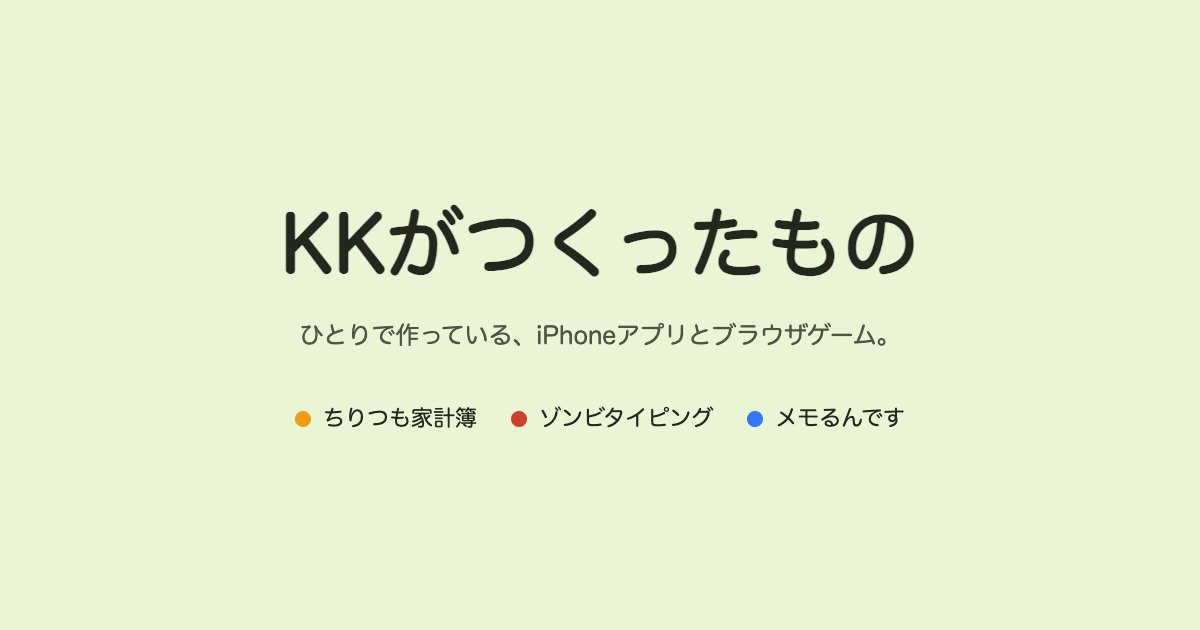
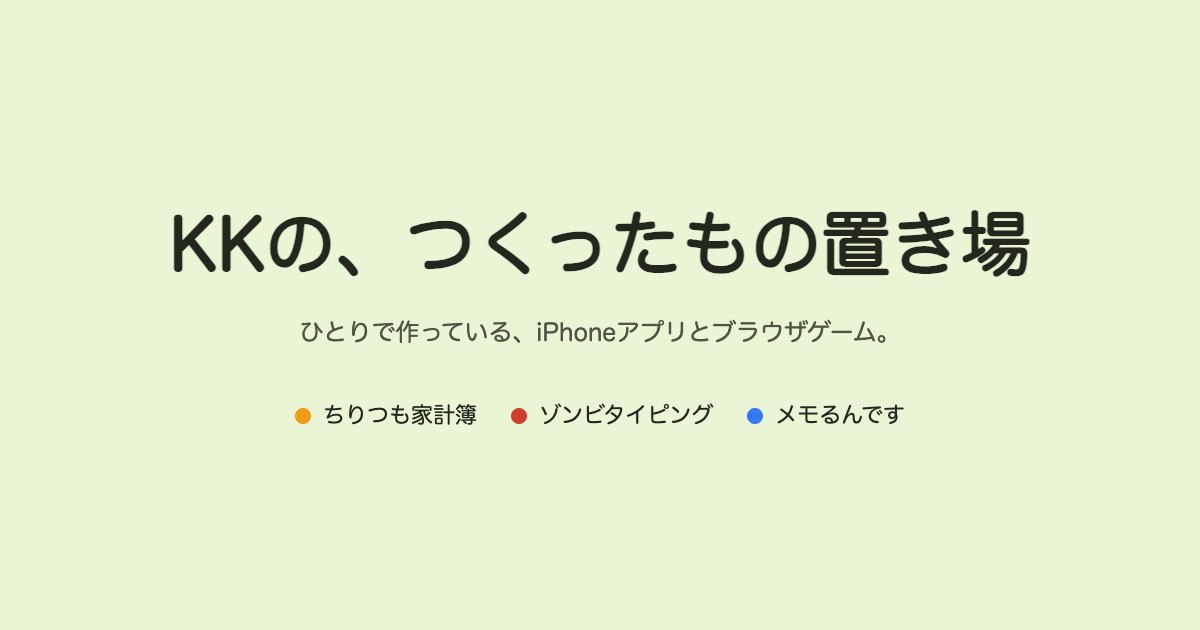
名前・サイト名・料金の説明・スクショの並びを直す
- 作者名の漢字を「川畑康志郎」に修正
- サイト名を「KKの、つくったもの置き場」に変更（OG画像も再生成）
- カードのスクリーンショットが縦につぶれる問題を修正
- App Storeと同じ並びになるよう2枚目と3枚目を入れ替え
- ちりつもに「なぜ、お金をとるのか」を追加（AI利用料は実費、月300円の理由）

diff --git a/chiritsumo/index.html b/chiritsumo/index.html
@@ -23,7 +23,7 @@
 <body class="t-chiri">
 
 <nav class="nav">
-  <a class="nav__home" href="/"><span class="nav__mark" aria-hidden="true"></span>KKがつくったもの</a>
+  <a class="nav__home" href="/"><span class="nav__mark" aria-hidden="true"></span>KKの、つくったもの置き場</a>
   <ul class="nav__list">
     <li><a href="/chiritsumo/" aria-current="page" style="--d:var(--chiri)"><i class="nav__dot"></i><span class="nav__label">ちりつも家計簿</span></a></li>
     <li><a href="/zombie/" style="--d:var(--zombie)"><i class="nav__dot"></i><span class="nav__label">ゾンビタイピング</span></a></li>
@@ -219,8 +219,8 @@
     </div>
     <div class="gallery__strip">
       <button class="shot" type="button" data-zoom><img src="/assets/img/chiri/store-1.jpg" width="600" height="1299" alt="AI時代の最新家計簿。登録なし・広告なし" loading="lazy"></button>
-      <button class="shot" type="button" data-zoom><img src="/assets/img/chiri/store-3.jpg" width="600" height="1300" alt="入力ゼロ・ストレスゼロ。レシート撮るだけ、だから続く" loading="lazy"></button>
       <button class="shot" type="button" data-zoom><img src="/assets/img/chiri/store-2.jpg" width="600" height="1300" alt="カード明細では、わからない。いつ・どこで・商品名・何個・いくら・割引" loading="lazy"></button>
+      <button class="shot" type="button" data-zoom><img src="/assets/img/chiri/store-3.jpg" width="600" height="1300" alt="入力ゼロ・ストレスゼロ。レシート撮るだけ、だから続く" loading="lazy"></button>
       <button class="shot" type="button" data-zoom><img src="/assets/img/chiri/store-4.jpg" width="600" height="1300" alt="分析はAIの仕事。習慣も、変化も教えてくれる" loading="lazy"></button>
       <button class="shot" type="button" data-zoom><img src="/assets/img/chiri/store-5.jpg" width="600" height="1300" alt="レジ袋、560円でした。それは気づけない日々のちりつも" loading="lazy"></button>
       <button class="shot" type="button" data-zoom><img src="/assets/img/chiri/store-6.jpg" width="600" height="1296" alt="後からまとめてアップ。圧倒的に早い・だから続く" loading="lazy"></button>
@@ -248,6 +248,31 @@
         <p>足りなくなったときだけ、プレミアムを考えてもらえれば十分です。無料のままでも、手入力・月レポート・CSVの書き出しはずっと使えます。</p>
       </div>
     </div>
+    <section class="letter" id="letter">
+      <p class="letter__label">つくった人から</p>
+      <h3>なぜ、お金をとるのか</h3>
+      <p>
+        レシートを1枚読むたびに、<em>AIの利用料が実際にかかっています</em>。
+        1枚ぶんは小さな額です。でも読まれた枚数だけ、そのまま請求が来ます。
+        いまそれを払っているのは、ひとりで作っている私です。
+      </p>
+      <p>
+        だから「ぜんぶ無料で使い放題」にはできませんでした。
+        広告を入れて無料にする道もありました。でも家計簿は、<strong>何を買ったかがぜんぶ書いてある場所</strong>です。
+        そこにトラッキング広告を置くのは、どうしても嫌でした。
+      </p>
+      <p>
+        残った道が、たくさん使う方にだけ<em>月300円ほど</em>をお願いすることでした。
+        コーヒー1杯ぶんです。いただいたぶんはAIの利用料とサーバー代に消えて、
+        残りは次に作るものになります。もうけを大きくしたくて置いている料金ではありません。
+      </p>
+      <p>
+        <strong>はじめの30枚と、毎月10枚は、これからも無料のままにしておきます。</strong>
+        毎月たくさん撮る方だけ、その300円を持ってもらえたら助かります、というお願いです。
+      </p>
+      <p class="letter__sign">— 川畑康志郎</p>
+    </section>
+
     <div class="plans">
       <div class="plan">
         <h3>無料</h3>

diff --git a/index.html b/index.html
@@ -5,10 +5,10 @@
 <meta name="viewport" content="width=device-width,initial-scale=1">
 <meta name="color-scheme" content="light">
 <meta name="theme-color" content="#eaf5d6">
-<title>KKがつくったもの — ちりつも家計簿・ゾンビタイピング・メモるんです</title>
+<title>KKの、つくったもの置き場 — ちりつも家計簿・ゾンビタイピング・メモるんです</title>
 <meta name="description" content="ひとりで作っているiPhoneアプリとブラウザゲームの置き場です。ちりつも家計簿（レシートを撮るだけのAI家計簿）、ゾンビタイピング（無料の日本語タイピングゲーム）、メモるんです（フォルダで整理するメモ帳）。">
 <link rel="canonical" href="https://thisisikemen.github.io/">
-<meta property="og:title" content="KKがつくったもの">
+<meta property="og:title" content="KKの、つくったもの置き場">
 <meta property="og:description" content="ひとりで作っているiPhoneアプリとブラウザゲームの置き場です。">
 <meta property="og:type" content="website">
 <meta property="og:url" content="https://thisisikemen.github.io/">
@@ -23,7 +23,7 @@
 <body>
 
 <nav class="nav">
-  <a class="nav__home" href="/"><span class="nav__mark" aria-hidden="true"></span>KKがつくったもの</a>
+  <a class="nav__home" href="/"><span class="nav__mark" aria-hidden="true"></span>KKの、つくったもの置き場</a>
   <ul class="nav__list">
     <li><a href="/chiritsumo/" style="--d:var(--chiri)"><i class="nav__dot"></i><span class="nav__label">ちりつも家計簿</span></a></li>
     <li><a href="/zombie/" style="--d:var(--zombie)"><i class="nav__dot"></i><span class="nav__label">ゾンビタイピング</span></a></li>
@@ -32,7 +32,7 @@
 </nav>
 
 <header class="top">
-  <h1>KKがつくったもの</h1>
+  <h1>KKの、つくったもの置き場</h1>
   <p class="lead">
     ひとりで作っています。むずかしい設定はいりません。
     入れたその日から、なんとなく使えるものを目指しています。
@@ -133,13 +133,18 @@
   <section class="maker rise" style="margin-top:3.5rem">
     <h2>つくっている人</h2>
     <p>
-      川端幸士郎（KK）といいます。企画も、絵も、コードも、文章も、ひとりでやっています。
+      川畑康志郎（KK）といいます。企画も、絵も、コードも、文章も、ひとりでやっています。
       作るものはばらばらですが、決めていることが3つあります。
     </p>
     <p>
       <strong>説明書がいらないこと。</strong>
       <strong>登録させないこと。</strong>
       <strong>あとから直せること。</strong>
+    </p>
+    <p>
+      ちりつも家計簿のレシート読み取りには、AIの利用料が1枚ごとに実費でかかっています。
+      いまはそれを私が払っていて、たくさん使う方にだけ月300円ほどをお願いしています。
+      その理由は<a href="/chiritsumo/#letter">ちりつものページ</a>に書きました。
     </p>
     <p style="color:var(--ink-faint);font-size:.875rem">
       うまく動かないとき、こうしてほしいと思ったときは、

diff --git a/assets/site.css b/assets/site.css
@@ -1,6 +1,6 @@
 @charset "utf-8";
 
-/* KKがつくったもの — 共通スタイル
+/* KKの、つくったもの置き場 — 共通スタイル
  *
  * 考えかた（2026-08-30 改訂）
  *
@@ -271,6 +271,9 @@ a.card:hover .card__go span { transform: translateX(5px); }
 .card__shot {
   position: relative; z-index: 1; margin-top: 1.4rem;
   display: flex; justify-content: center;
+  /* align-items を指定しないと stretch になり、max-height に合わせて
+     画像が縦につぶれる。上端ぞろえにして、はみ出た下だけを隠す */
+  align-items: flex-start;
   max-height: 15rem; overflow: hidden;
 }
 .card__shot img {
@@ -771,3 +774,34 @@ a.card:hover .card__shot img { transform: translateY(-10px); }
 .phones .phone { flex: 1 1 0; min-width: 0; }
 .phones .phone:last-child { transform: translateY(1.75rem) scale(.9); opacity: .92; }
 @media (max-width: 30rem) { .phones .phone:last-child { display: none; } }
+
+/* ══ つくった人からの手紙 ══════════════════════════
+ * 料金の話は、仕組みだけ書いても伝わらない。
+ * なぜお金がかかるのかを、本人の言葉で置いておく場所。 */
+
+.letter {
+  position: relative;
+  background: var(--tone-tint);
+  border-radius: 26px;
+  padding: 2.25rem 1.75rem 2rem;
+  margin: 0 0 2.5rem;
+}
+@media (min-width: 40rem) { .letter { padding: 2.5rem 3rem 2.25rem; } }
+
+.letter__label {
+  display: inline-flex; align-items: center; gap: .5rem;
+  font-size: .75rem; font-weight: 700; font-family: var(--gothic);
+  color: var(--tone-deep); letter-spacing: .08em; margin: 0 0 .5rem;
+}
+.letter__label::before { content: ""; width: 1.5rem; height: 2px; background: var(--tone); border-radius: 2px; }
+
+.letter h3 { margin: 0 0 1rem; font-size: clamp(1.2rem, 4vw, 1.5rem); line-height: 1.6; }
+.letter p { margin: 0 0 1rem; font-size: .9375rem; line-height: 2.05; color: #4a4f42; }
+.letter p:last-of-type { margin-bottom: 0; }
+.letter strong { color: var(--ink); }
+.letter em { font-style: normal; color: var(--tone-deep); font-weight: 700; }
+
+.letter__sign {
+  margin: 1.5rem 0 0; text-align: right;
+  font-size: .875rem; color: var(--ink-soft);
+}

diff --git a/zombie/index.html b/zombie/index.html
@@ -22,7 +22,7 @@
 <body class="t-zombie">
 
 <nav class="nav">
-  <a class="nav__home" href="/"><span class="nav__mark" aria-hidden="true"></span>KKがつくったもの</a>
+  <a class="nav__home" href="/"><span class="nav__mark" aria-hidden="true"></span>KKの、つくったもの置き場</a>
   <ul class="nav__list">
     <li><a href="/chiritsumo/" style="--d:var(--chiri)"><i class="nav__dot"></i><span class="nav__label">ちりつも家計簿</span></a></li>
     <li><a href="/zombie/" aria-current="page" style="--d:var(--zombie)"><i class="nav__dot"></i><span class="nav__label">ゾンビタイピング</span></a></li>

diff --git a/chiritsumo/privacy/index.html b/chiritsumo/privacy/index.html
@@ -17,7 +17,7 @@
 </head>
 <body class="t-chiri">
 <nav class="nav">
-  <a class="nav__home" href="/"><span class="nav__mark" aria-hidden="true"></span>KKがつくったもの</a>
+  <a class="nav__home" href="/"><span class="nav__mark" aria-hidden="true"></span>KKの、つくったもの置き場</a>
   <ul class="nav__list">
     <li><a href="/chiritsumo/" style="--d:var(--chiri)"><i class="nav__dot"></i><span class="nav__label">ちりつも家計簿</span></a></li>
     <li><a href="/zombie/" style="--d:var(--zombie)"><i class="nav__dot"></i><span class="nav__label">ゾンビタイピング</span></a></li>

diff --git a/chiritsumo/support/index.html b/chiritsumo/support/index.html
@@ -17,7 +17,7 @@
 </head>
 <body class="t-chiri">
 <nav class="nav">
-  <a class="nav__home" href="/"><span class="nav__mark" aria-hidden="true"></span>KKがつくったもの</a>
+  <a class="nav__home" href="/"><span class="nav__mark" aria-hidden="true"></span>KKの、つくったもの置き場</a>
   <ul class="nav__list">
     <li><a href="/chiritsumo/" style="--d:var(--chiri)"><i class="nav__dot"></i><span class="nav__label">ちりつも家計簿</span></a></li>
     <li><a href="/zombie/" style="--d:var(--zombie)"><i class="nav__dot"></i><span class="nav__label">ゾンビタイピング</span></a></li>

diff --git a/chiritsumo/terms/index.html b/chiritsumo/terms/index.html
@@ -17,7 +17,7 @@
 </head>
 <body class="t-chiri">
 <nav class="nav">
-  <a class="nav__home" href="/"><span class="nav__mark" aria-hidden="true"></span>KKがつくったもの</a>
+  <a class="nav__home" href="/"><span class="nav__mark" aria-hidden="true"></span>KKの、つくったもの置き場</a>
   <ul class="nav__list">
     <li><a href="/chiritsumo/" style="--d:var(--chiri)"><i class="nav__dot"></i><span class="nav__label">ちりつも家計簿</span></a></li>
     <li><a href="/zombie/" style="--d:var(--zombie)"><i class="nav__dot"></i><span class="nav__label">ゾンビタイピング</span></a></li>

diff --git a/privacy-policy.html b/privacy-policy.html
@@ -18,7 +18,7 @@
 </head>
 <body class="t-memo">
 <nav class="nav">
-  <a class="nav__home" href="/"><span class="nav__mark" aria-hidden="true"></span>KKがつくったもの</a>
+  <a class="nav__home" href="/"><span class="nav__mark" aria-hidden="true"></span>KKの、つくったもの置き場</a>
   <ul class="nav__list">
     <li><a href="/chiritsumo/" style="--d:var(--chiri)"><i class="nav__dot"></i><span class="nav__label">ちりつも家計簿</span></a></li>
     <li><a href="/zombie/" style="--d:var(--zombie)"><i class="nav__dot"></i><span class="nav__label">ゾンビタイピング</span></a></li>

diff --git a/support.html b/support.html
@@ -19,7 +19,7 @@
 </head>
 <body class="t-memo">
 <nav class="nav">
-  <a class="nav__home" href="/"><span class="nav__mark" aria-hidden="true"></span>KKがつくったもの</a>
+  <a class="nav__home" href="/"><span class="nav__mark" aria-hidden="true"></span>KKの、つくったもの置き場</a>
   <ul class="nav__list">
     <li><a href="/chiritsumo/" style="--d:var(--chiri)"><i class="nav__dot"></i><span class="nav__label">ちりつも家計簿</span></a></li>
     <li><a href="/zombie/" style="--d:var(--zombie)"><i class="nav__dot"></i><span class="nav__label">ゾンビタイピング</span></a></li>

diff --git a/privacy-policy-camera.html b/privacy-policy-camera.html
@@ -17,7 +17,7 @@
 </head>
 <body class="">
 <nav class="nav">
-  <a class="nav__home" href="/"><span class="nav__mark" aria-hidden="true"></span>KKがつくったもの</a>
+  <a class="nav__home" href="/"><span class="nav__mark" aria-hidden="true"></span>KKの、つくったもの置き場</a>
   <ul class="nav__list">
     <li><a href="/chiritsumo/" style="--d:var(--chiri)"><i class="nav__dot"></i><span class="nav__label">ちりつも家計簿</span></a></li>
     <li><a href="/zombie/" style="--d:var(--zombie)"><i class="nav__dot"></i><span class="nav__label">ゾンビタイピング</span></a></li>

diff --git a/support-camera.html b/support-camera.html
@@ -17,7 +17,7 @@
 </head>
 <body class="">
 <nav class="nav">
-  <a class="nav__home" href="/"><span class="nav__mark" aria-hidden="true"></span>KKがつくったもの</a>
+  <a class="nav__home" href="/"><span class="nav__mark" aria-hidden="true"></span>KKの、つくったもの置き場</a>
   <ul class="nav__list">
     <li><a href="/chiritsumo/" style="--d:var(--chiri)"><i class="nav__dot"></i><span class="nav__label">ちりつも家計簿</span></a></li>
     <li><a href="/zombie/" style="--d:var(--zombie)"><i class="nav__dot"></i><span class="nav__label">ゾンビタイピング</span></a></li>

diff --git a/memorundesu/index.html b/memorundesu/index.html
@@ -23,7 +23,7 @@
 <body class="t-memo">
 
 <nav class="nav">
-  <a class="nav__home" href="/"><span class="nav__mark" aria-hidden="true"></span>KKがつくったもの</a>
+  <a class="nav__home" href="/"><span class="nav__mark" aria-hidden="true"></span>KKの、つくったもの置き場</a>
   <ul class="nav__list">
     <li><a href="/chiritsumo/" style="--d:var(--chiri)"><i class="nav__dot"></i><span class="nav__label">ちりつも家計簿</span></a></li>
     <li><a href="/zombie/" style="--d:var(--zombie)"><i class="nav__dot"></i><span class="nav__label">ゾンビタイピング</span></a></li>
